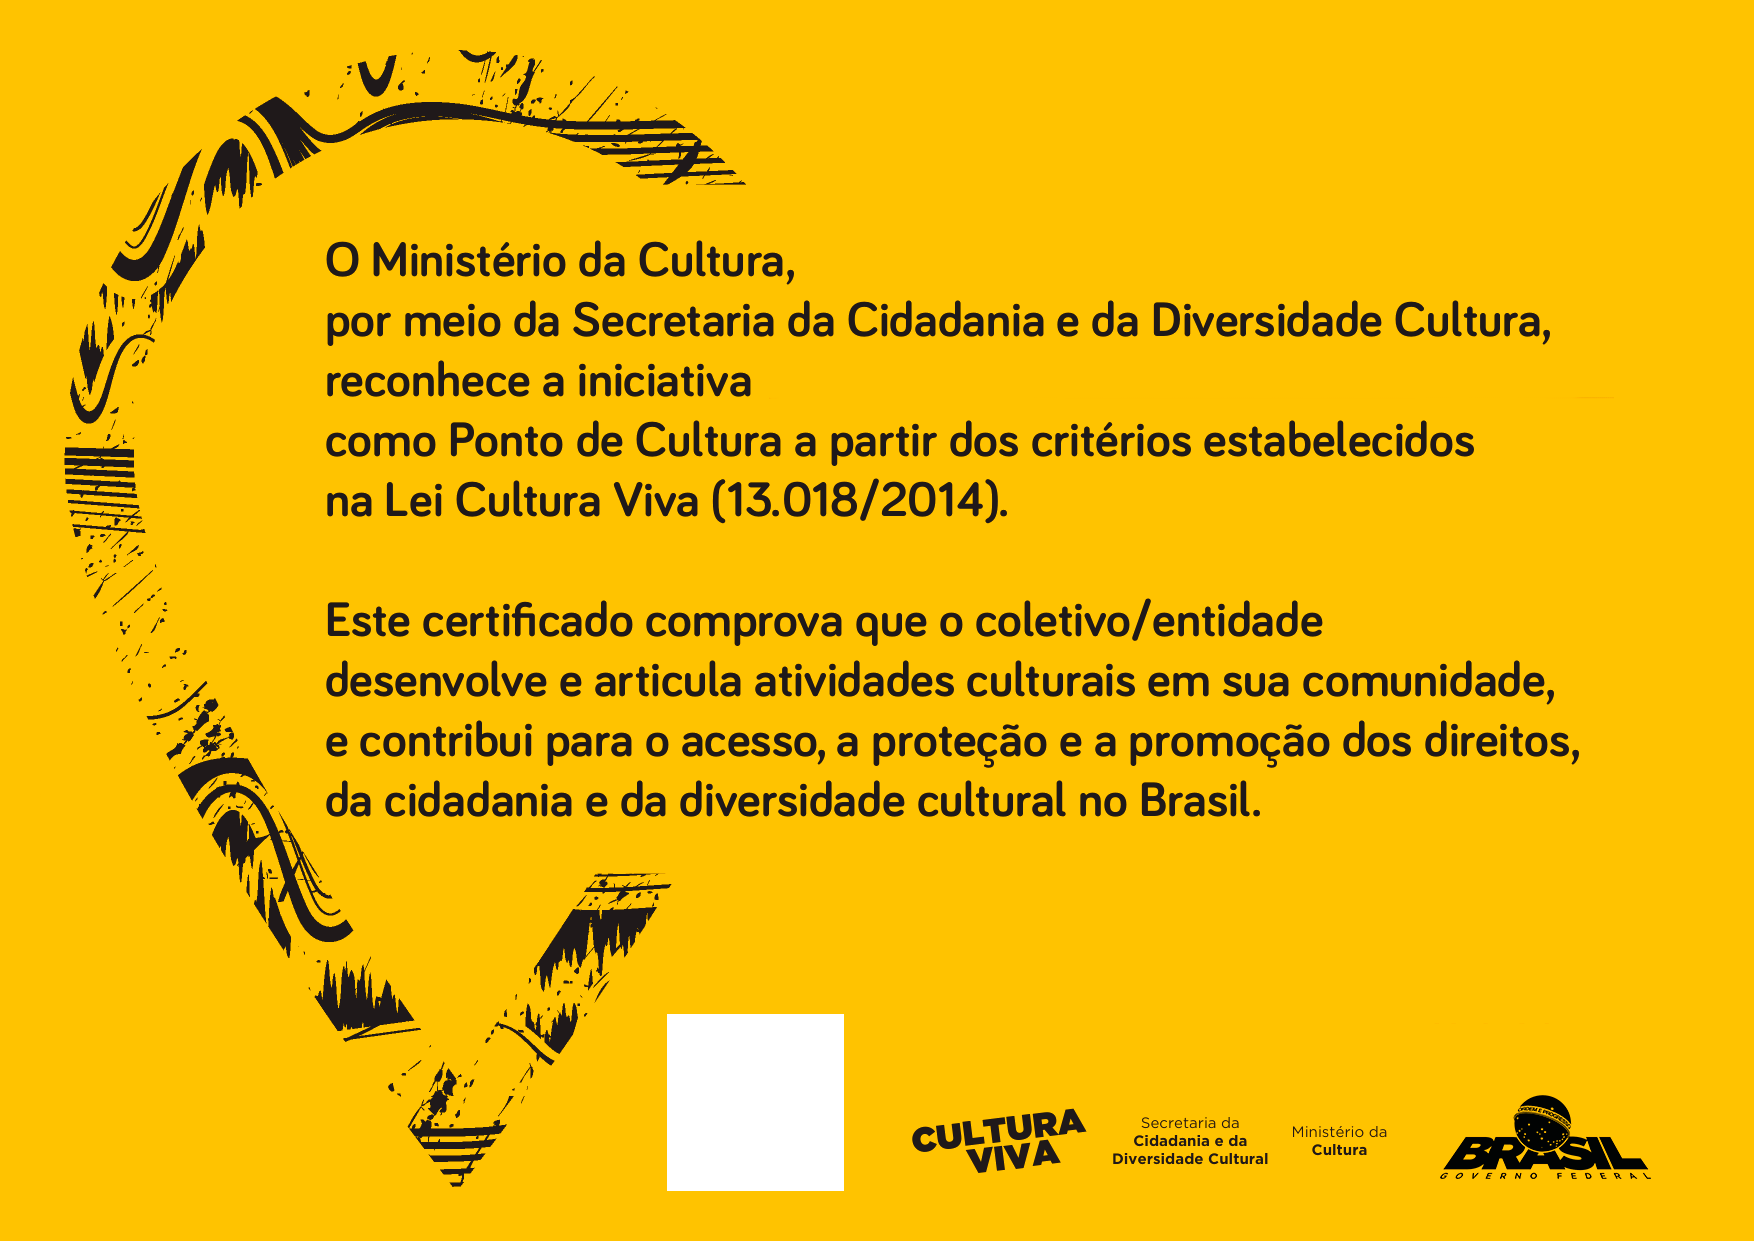
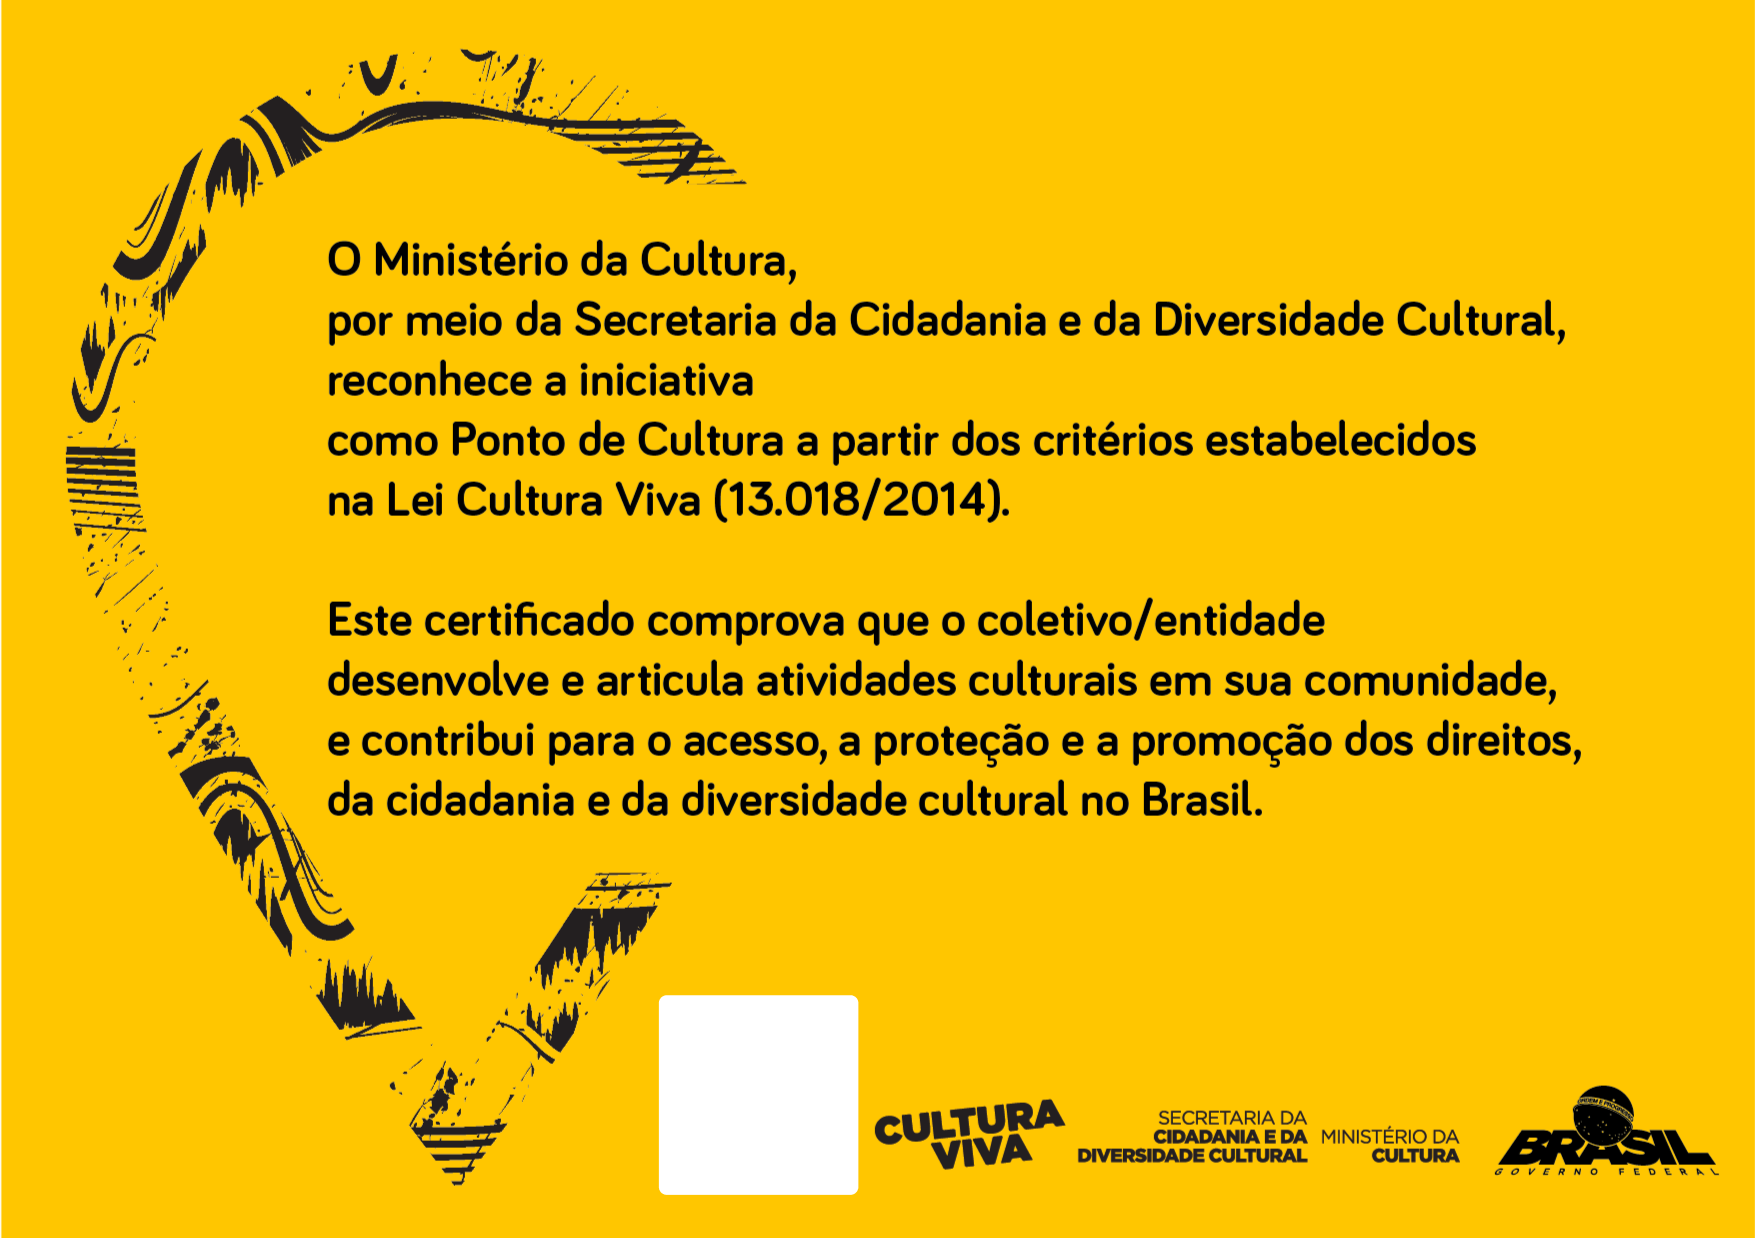
Correção no certificado do ponto de cultura

diff --git a/views/cadastro/index.php b/views/cadastro/index.php
@@ -3,18 +3,17 @@ $this->bodyProperties['ng-app'] = "culturaviva";
 ?>
 <style>
   a{
-      color: #078979;
+    color: #078979;
   }
-  a:hover{
-      color: #078979;
+  a:hover{color: #078979;
   }
   #selo-index{
       margin-left: 874px;
       margin-top: -198px;
   }
   #selo-img{
-      height: 180px;
-      width:auto;
+    height: 180px;
+    width:auto;
   }
   canvas{
       width: 10px;
@@ -463,13 +462,14 @@ $this->bodyProperties['ng-app'] = "culturaviva";
             }else{
                 doc.setFontSize(15);
             }
-            doc.addImage(dataUrl,'png',0,0,1754,1241);
+            doc.addImage(dataUrl,'png',0,0,1754,1239);
             doc.setFontType("bold");
             doc.text(window.name, 770, 395);
             doc.setFontSize(30);
             doc.text(window.url,570,1225);
             var dataURLQR = qr.children[0].toDataURL('image/png');
-            doc.addImage(dataURLQR,'png',667,1014,177,177);
+            console.log(dataURLQR);
+            doc.addImage(dataURLQR,'png',659,996,200,199);
             doc.save('Certificado.pdf');
         });
     };
